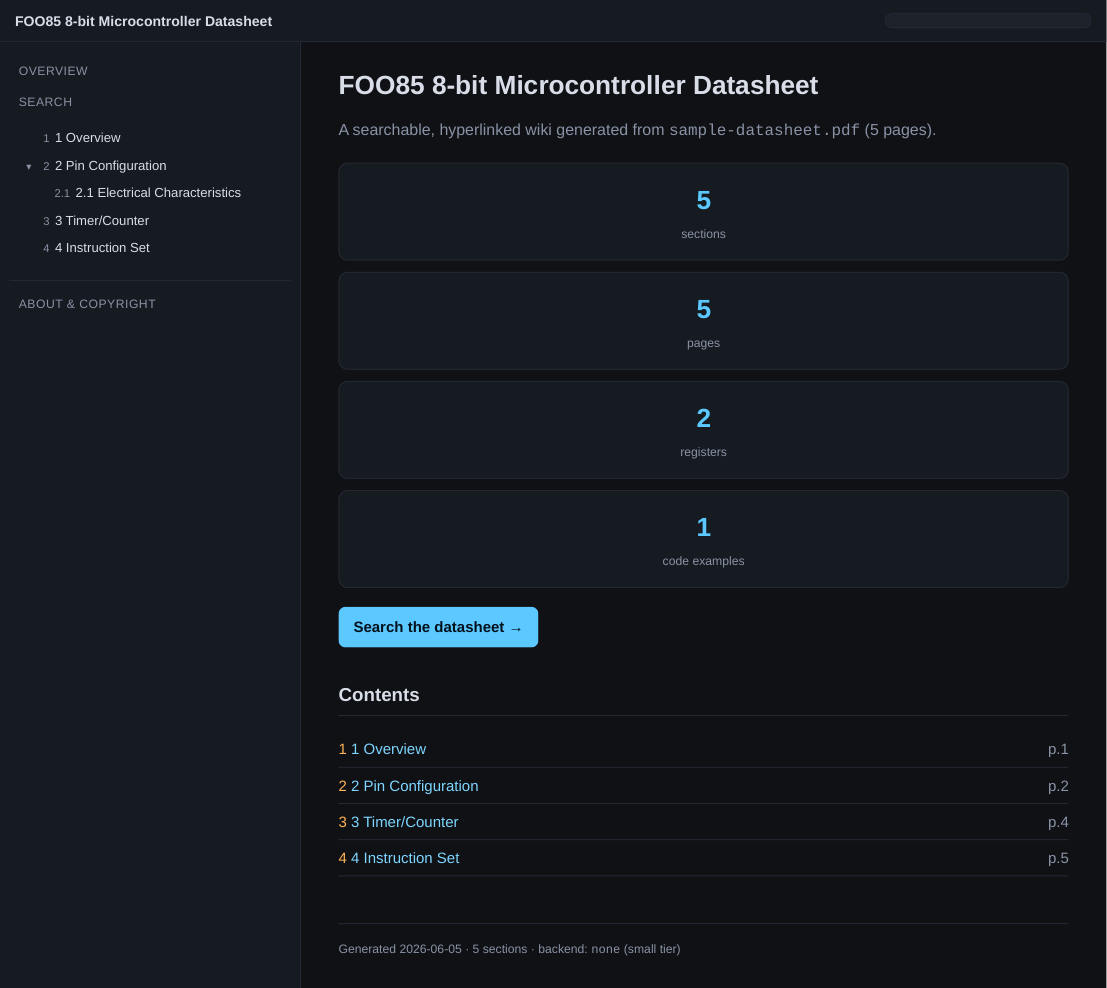
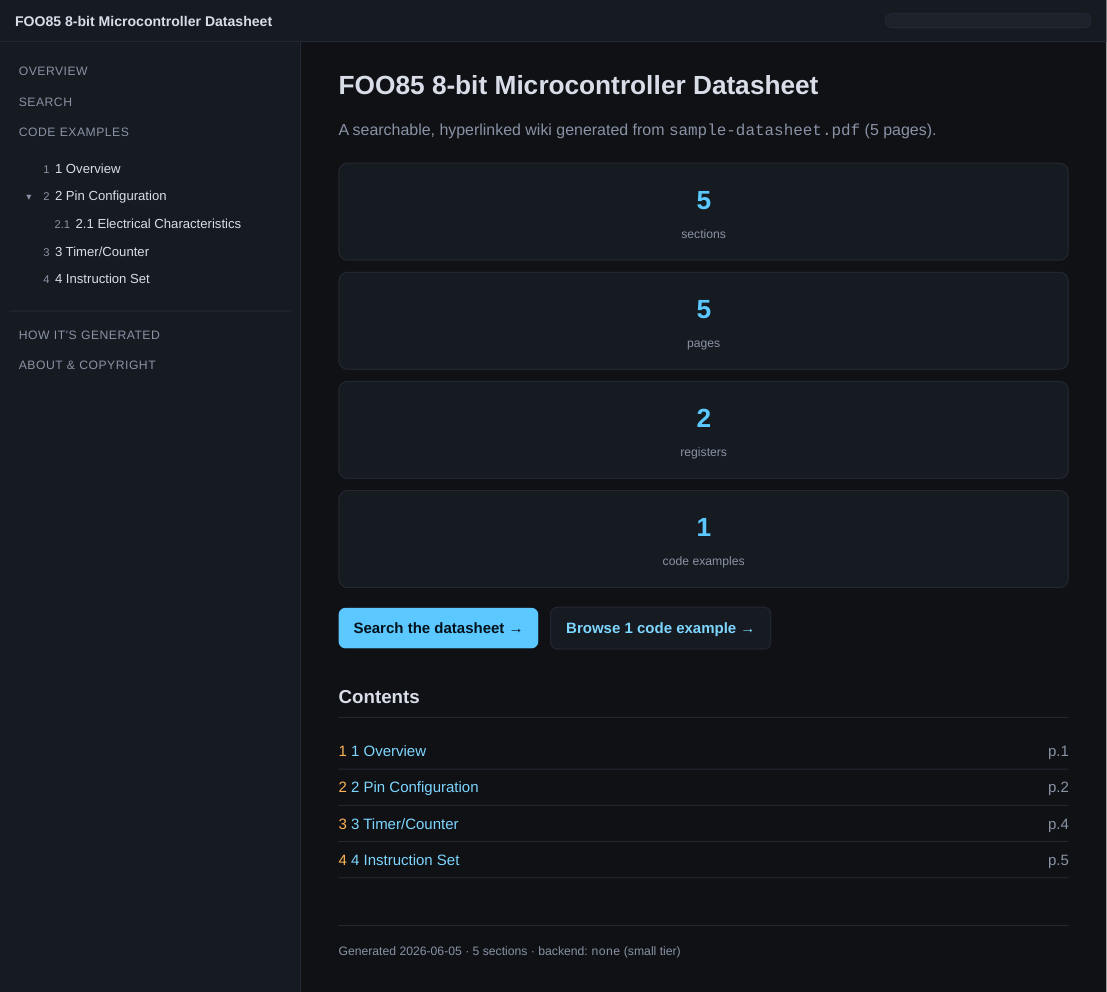
Move page images to top, label summary provenance, add 'How it's generated' page
- Section pages now show the source page images near the top (after the summary,
  before the formatted text), each captioned with its page number.
- The summary states the page range it was generated from; the section header
  shows provenance (page range + which backend produced the enrichment) and
  links to the new explainer page.
- New how.html: a per-section breakdown of how each part of the wiki is
  generated (outline, page images, cross-links, summary, registers, code,
  formatted text, tables, figures, search), with the tier/backend used and the
  local-vs-LLM split. Linked from the sidebar and every section header.
- Regenerated screenshots; tests for the new layout, provenance, and how page.

diff --git a/datasheet_wiki/site/templates/how.html b/datasheet_wiki/site/templates/how.html
@@ -1,0 +1,107 @@
+{% extends "base.html" %}
+{% block title %}How this wiki is generated{% endblock %}
+{% block content %}
+<article class="prose">
+  <h1>How this wiki is generated</h1>
+  <p class="lead">This site was built by
+    <a href="https://github.com/nro-bot/claude_datasheet_wiki">datasheet-wiki</a>
+    from <code>{{ meta.source_name }}</code> ({{ meta.page_count }} pages) using the
+    <strong>{{ meta.compute }}</strong> tier
+    (enrichment backend <code>{{ meta.backend }}</code>{% if meta.model %}, model
+    <code>{{ meta.model }}</code>{% endif %}).</p>
+
+  <p>Every part of a section page is derived from the original PDF. Here is where
+  each piece comes from:</p>
+
+  <table class="kv how">
+    <tr>
+      <th>Sections &amp; sidebar tree</th>
+      <td>The PDF's built-in outline (table of contents) read with
+        <a href="https://pymupdf.readthedocs.io/">PyMuPDF</a>. Each entry owns a
+        page range; if the PDF has no outline, pages are grouped in fixed blocks.
+        <span class="how-tier">always local · no LLM</span></td>
+    </tr>
+    <tr>
+      <th>Source page images</th>
+      <td>Each page is rasterised at {{ meta.dpi }} DPI and shown near the top of
+        its section, captioned with the page number, so you can always check the
+        generated content against the original.
+        <span class="how-tier">always local · no LLM</span></td>
+    </tr>
+    <tr>
+      <th>Cross-reference links</th>
+      <td>"see Section 4.3", "Table 10-1" and "page 42" are turned into wiki
+        links by matching them against the section tree, combined with the
+        hyperlinks the datasheet authors already embedded in the PDF.
+        <span class="how-tier">always local · no LLM</span></td>
+    </tr>
+    <tr>
+      <th>Summary &amp; keywords</th>
+      <td>{% if meta.backend == 'none' %}Extractive heuristics: the first
+        substantial sentences of the section, plus frequency-ranked identifiers
+        as keywords. Generated from the section's page range (shown next to each
+        summary).{% else %}Written by the <code>{{ meta.backend }}</code> model
+        from the section's text (the page range is shown next to each summary),
+        on top of the heuristic baseline.{% endif %}
+        <span class="how-tier">{{ 'local heuristics' if meta.backend == 'none' else ('local LLM' if meta.backend == 'ollama' else 'cloud LLM') }}</span></td>
+    </tr>
+    <tr>
+      <th>Registers &amp; bit-fields</th>
+      <td>Heuristic detection of "<code>NAME – … Register</code>" headings and
+        "<code>Bit n – FIELD</code>" rows via regular expressions{% if meta.backend != 'none' %},
+        then refined into structured tables by the LLM{% endif %}.
+        <span class="how-tier">{{ 'local heuristics' if meta.backend == 'none' else 'heuristics + LLM' }}</span></td>
+    </tr>
+    <tr>
+      <th>Code examples</th>
+      <td>Code-like blocks (C/assembly) detected in the page text{% if meta.backend != 'none' %},
+        plus minimal usage examples generated by the LLM{% endif %}. All examples
+        are also collected on the <a href="{{ root }}code.html">Code examples</a> page.
+        <span class="how-tier">{{ 'local heuristics' if meta.backend == 'none' else 'heuristics + LLM' }}</span></td>
+    </tr>
+    <tr>
+      <th>Formatted text</th>
+      <td>The raw PDF text reflowed into real paragraphs (hard line breaks joined,
+        words de-hyphenated), with headings, <strong>bold</strong> and bullet
+        lists recovered from the font metadata.
+        <span class="how-tier">always local · no LLM</span></td>
+    </tr>
+    <tr>
+      <th>Tables</th>
+      <td>Scattered table cells (e.g. a register's <code>Bit / 7 / 6 / 5 / 4</code>
+        column) are combined onto one line and tucked into a collapsed code block;
+        a page that is entirely a table is flagged with a link to its image.
+        <span class="how-tier">always local · no LLM</span></td>
+    </tr>
+    <tr>
+      <th>Figures</th>
+      <td>Embedded raster images are extracted, and vector diagrams are cropped
+        out of the blank gaps between paragraphs that actually contain drawing,
+        then embedded inline.
+        <span class="how-tier">always local · no LLM</span></td>
+    </tr>
+    <tr>
+      <th>Search</th>
+      <td>A full-text <abbr title="term frequency–inverse document frequency">tf-idf</abbr>
+        index is prebuilt and shipped as a JavaScript file so search works even
+        over <code>file://</code>{% if meta.semantic %}; this build also includes
+        a local semantic-embedding index for meaning-based search{% endif %}.
+        <span class="how-tier">{{ 'local (+ local embeddings)' if meta.semantic else 'always local' }}</span></td>
+    </tr>
+  </table>
+
+  <h2>Compute tiers</h2>
+  <p>The same generator runs at three levels of effort — this wiki used
+  <strong>{{ meta.compute }}</strong>:</p>
+  <ul>
+    <li><strong>small</strong> — no LLM at all; heuristics only. Runs on any laptop.</li>
+    <li><strong>medium</strong> — a local LLM via Ollama (nothing leaves your machine).</li>
+    <li><strong>large</strong> — a cloud LLM API for the best summaries, register
+      extraction and code examples.</li>
+  </ul>
+  <p class="muted">Cross-reference links, register/figure/table handling, page
+  images and search are produced locally in every tier; only the summary,
+  structured register extraction and generated code examples change with the
+  backend.</p>
+</article>
+{% endblock %}

diff --git a/datasheet_wiki/site/templates/section.html b/datasheet_wiki/site/templates/section.html
@@ -10,16 +10,38 @@
   </nav>
 
   <h1>{% if section.number %}<span class="secnum">{{ section.number }}</span> {% endif %}{{ section.title }}</h1>
-  <p class="muted">Source: {{ section.page_label }}</p>
+  <p class="muted">Datasheet {{ section.page_label }}
+    {%- if meta.backend == 'none' %} · summary &amp; structure from local heuristics
+    {%- elif meta.backend == 'ollama' %} · enriched by a local LLM ({{ meta.model or 'ollama' }})
+    {%- else %} · enriched by {{ meta.backend }}{% if meta.model %} ({{ meta.model }}){% endif %}{% endif -%}
+    · <a href="{{ root }}how.html">how is this generated?</a></p>
 
   {% if enrichment.summary %}
   <div class="summary">
-    <h2>Summary</h2>
+    <h2>Summary <span class="from">generated from {{ section.page_label }}</span></h2>
     <p>{{ enrichment.summary }}</p>
     {% if enrichment.keywords %}
     <p class="tags">{% for k in enrichment.keywords %}<span class="tag">{{ k }}</span>{% endfor %}</p>
     {% endif %}
   </div>
+  {% endif %}
+
+  {% set page_imgs = images | select | list %}
+  {% if page_imgs %}
+  <section class="pageimages">
+    <h2>Source pages <span class="from">{{ section.page_label }}</span></h2>
+    <p class="muted">Everything on this page is generated from these original datasheet page{{ '' if page_imgs|length == 1 else 's' }}.</p>
+    <div class="thumbs">
+      {% for img in page_imgs %}
+      <figure class="thumb">
+        <a href="{{ root }}images/{{ img }}" target="_blank" rel="noopener">
+          <img loading="lazy" src="{{ root }}images/{{ img }}" alt="Datasheet page {{ section.start_page + loop.index0 + 1 }}">
+        </a>
+        <figcaption>Page {{ section.start_page + loop.index0 + 1 }}</figcaption>
+      </figure>
+      {% endfor %}
+    </div>
+  </section>
   {% endif %}
 
   {% if enrichment.registers %}
@@ -69,19 +91,6 @@
       {{ body | safe }}
     </div>
   </details>
-
-  {% if images %}
-  <section class="pageimages">
-    <h2>Original pages</h2>
-    <div class="thumbs">
-      {% for img in images %}
-      <a class="thumb" href="{{ root }}images/{{ img }}" target="_blank" rel="noopener">
-        <img loading="lazy" src="{{ root }}images/{{ img }}" alt="Datasheet page">
-      </a>
-      {% endfor %}
-    </div>
-  </section>
-  {% endif %}
 
   <nav class="prevnext">
     {% if prev %}<a class="prev" href="{{ root }}{{ prev.url }}">← {{ prev.title }}</a>{% endif %}

diff --git a/datasheet_wiki/site/static/style.css b/datasheet_wiki/site/static/style.css
@@ -87,6 +87,11 @@ table.bits, table.kv { width: 100%; border-collapse: collapse; margin: 8px 0; fo
 table.bits th, table.bits td, table.kv th, table.kv td { border: 1px solid var(--border); padding: 6px 10px; text-align: left; vertical-align: top; }
 table.bits th, table.kv th { background: var(--panel2); }
 table.kv th { width: 200px; }
+table.kv.how th { width: 210px; vertical-align: top; }
+table.kv.how td { line-height: 1.55; }
+.how-tier { display: inline-block; margin-top: 8px; font-size: 11px; color: var(--muted);
+  background: var(--panel2); border: 1px solid var(--border); border-radius: 10px; padding: 1px 9px;
+  text-transform: uppercase; letter-spacing: .03em; }
 
 /* code */
 figure.code { margin: 14px 0; background: var(--code-bg); border: 1px solid var(--border); border-radius: 8px; overflow: hidden; }
@@ -136,9 +141,13 @@ details.rawtext .bodytext { margin-top: 12px; }
 details.rawtext .bodytext p { color: var(--muted); }
 
 /* page images */
-.thumbs { display: grid; grid-template-columns: repeat(auto-fill, minmax(150px, 1fr)); gap: 12px; }
-.thumb { display: block; border: 1px solid var(--border); border-radius: 6px; overflow: hidden; background: #fff; }
+.thumbs { display: grid; grid-template-columns: repeat(auto-fill, minmax(160px, 1fr)); gap: 12px; }
+.thumb { margin: 0; border: 1px solid var(--border); border-radius: 6px; overflow: hidden; background: var(--panel); }
+.thumb a { display: block; background: #fff; }
 .thumb img { width: 100%; display: block; }
+.thumb figcaption { padding: 5px 6px; font-size: 12px; color: var(--muted); text-align: center;
+  border-top: 1px solid var(--border); }
+.from { font-size: 12px; color: var(--muted); font-weight: 400; text-transform: none; letter-spacing: 0; margin-left: 8px; }
 
 .prevnext { display: flex; justify-content: space-between; margin-top: 40px; gap: 10px; }
 .prevnext a { background: var(--panel); border: 1px solid var(--border); border-radius: 8px; padding: 10px 14px; max-width: 48%; }

diff --git a/datasheet_wiki/site/templates/base.html b/datasheet_wiki/site/templates/base.html
@@ -34,7 +34,8 @@
       <a class="nav-home" href="{{ root }}search.html">Search</a>
       <a class="nav-home" href="{{ root }}code.html">Code examples</a>
       <div id="nav-tree" class="nav-tree">{{ navtree(nav, current_url, root) }}</div>
-      <a class="nav-home about" href="{{ root }}about.html">About &amp; copyright</a>
+      <a class="nav-home about" href="{{ root }}how.html">How it's generated</a>
+      <a class="nav-home" href="{{ root }}about.html">About &amp; copyright</a>
     </div>
   </nav>
   <main class="content">

diff --git a/tests/test_pipeline.py b/tests/test_pipeline.py
@@ -47,6 +47,22 @@ def test_code_detection(wiki: Path):
     assert "avr/io.h" in timer
 
 
+def test_section_layout_and_provenance(wiki: Path):
+    html = (wiki / "sections" / "3-timer-counter.html").read_text()
+    # source page images moved up: after summary, before the formatted text
+    assert html.index('class="summary"') < html.index('class="pageimages"') < html.index('class="formatted"')
+    # it is clear which pages the summary/section comes from
+    assert "generated from p.4" in html
+    assert "Page 4" in html  # captioned page image
+
+
+def test_how_page(wiki: Path):
+    how = (wiki / "how.html").read_text()
+    assert "How this wiki is generated" in how
+    assert "Cross-reference links" in how and "Registers" in how
+    assert "120 DPI" in how  # the small tier's render DPI
+
+
 def test_code_toc_page(wiki: Path):
     code = (wiki / "code.html").read_text()
     assert "Code examples" in code

diff --git a/datasheet_wiki/site/builder.py b/datasheet_wiki/site/builder.py
@@ -117,6 +117,7 @@ class SiteBuilder:
                 code_groups=code_groups, code_count=total_code, **common,
             ),
         )
+        self._write("how.html", self.env.get_template("how.html").render(root="", page="how", current_url="", **common))
         self._write("about.html", self.env.get_template("about.html").render(root="", page="about", current_url="", **common))
 
         # section pages
